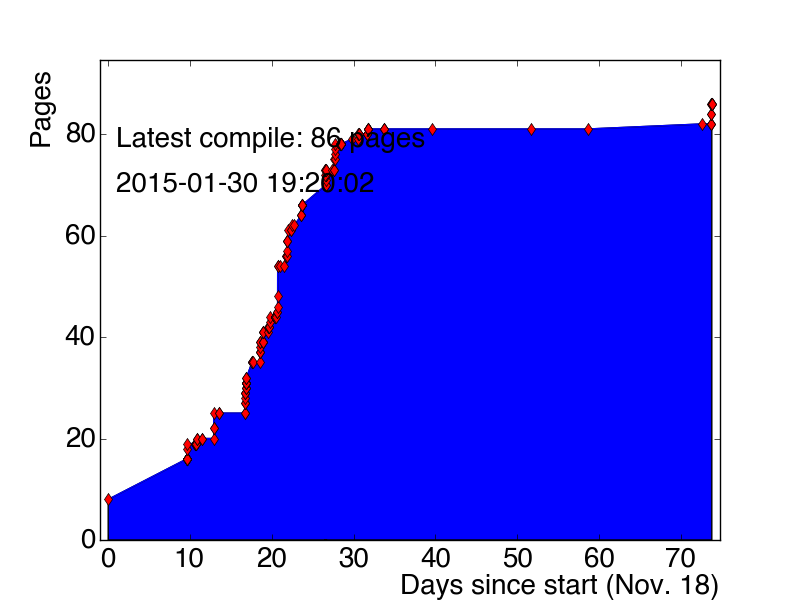
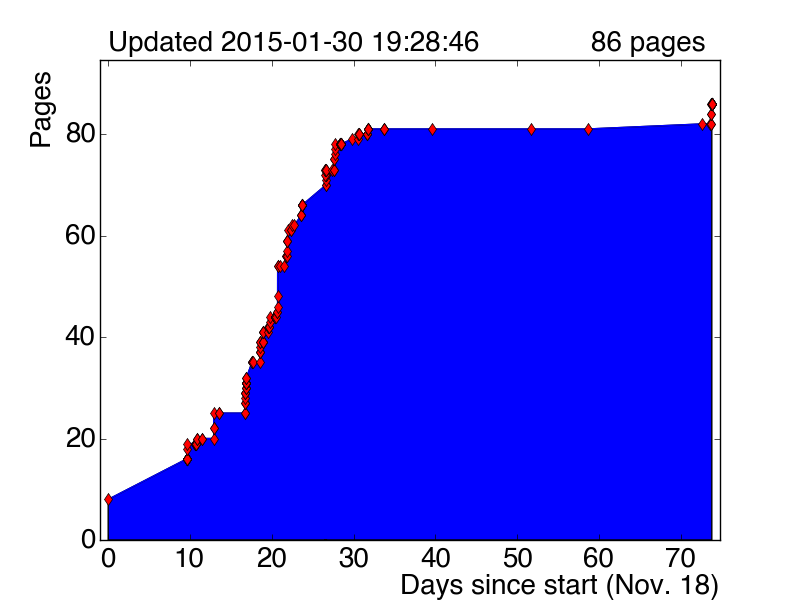
unfuck pages

diff --git a/scripts/plot_pages.py b/scripts/plot_pages.py
@@ -53,8 +53,10 @@ ax.yaxis.set_label_coords(-0.07, 0.9)
 plt.xlabel("Days since start (Nov. 18)")
 plt.ylabel("Pages")
 plt.title("")
-plt.text(1, 0.90*max(pages), r"Latest compile: %s pages" % (lastpages))
-plt.text(1, 0.80*max(pages), r"%s" % (lasttime))
+# plt.text(1, 0.90*max(pages), r"Latest compile: %s pages" % (lastpages))
+# plt.text(1, 0.80*max(pages), r"%s" % (lasttime))
+plt.text(0.8*maxdayssince, 1.12*max(pages), r"%s pages"   % (lastpages))
+plt.text(0,                1.12*max(pages), r"Updated %s" % (lasttime))
 plt.axis([-1, maxdayssince+1, 0, 1.1*max(pages)])
 plt.grid(False)
 plt.plot(dayssince, pages, "-")

diff --git a/pages.md b/pages.md
@@ -186,3 +186,15 @@
 + [2015-01-30-19h07m21s] 86
 + [2015-01-30-19h13m38s] 86
 + [2015-01-30-19h20m02s] 86
++ [2015-01-30-19h24m00s] 86
++ [2015-01-30-19h25m29s] 86
++ [2015-01-30-19h25m57s] 86
++ [2015-01-30-19h26m05s] 86
++ [2015-01-30-19h26m10s] 86
++ [2015-01-30-19h26m49s] 86
++ [2015-01-30-19h27m25s] 86
++ [2015-01-30-19h27m34s] 86
++ [2015-01-30-19h28m04s] 86
++ [2015-01-30-19h28m10s] 86
++ [2015-01-30-19h28m15s] 86
++ [2015-01-30-19h28m46s] 86
